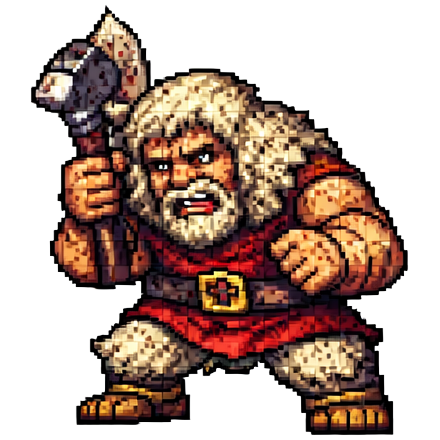
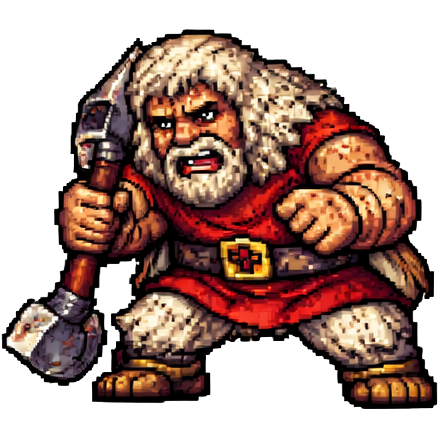
updated sprites, updated hall, enemy pool, and store

diff --git a/script.js b/script.js
@@ -80,10 +80,11 @@ function getShopStock(level) {
     4: ['champions_blade','death_scythe','plate_armor','tower_shield','hermes_boots','centurion_helm','siege_bolt'],
   };
   // Show current tier + 1 tier back (still relevant)
-  let pool = [...always, ...(byTier[1] || [])];
-  if (tier >= 2) pool = [...pool, ...(byTier[2] || [])];
-  if (tier >= 3) pool = [...pool, ...(byTier[3] || [])];
-  if (tier >= 4) pool = [...pool, ...(byTier[4] || [])];
+  let pool = [...always];
+  if (tier == 1) pool = [...pool, ...(byTier[1] || [])];
+  if (tier >= 2) pool = [...pool, ...(byTier[1] || []) , ...(byTier[2] || [])];
+  if (tier >= 3) pool = [...pool, ...(byTier[2] || []) , ...(byTier[3] || [])];
+  if (tier >= 4) pool = [...pool, ...(byTier[3] || []) , ...(byTier[4] || [])];
   // Remove tier-0 gear (already outgrown starters) except consumables
   return pool.filter(id => {
     const it = ITEMS[id];
@@ -98,11 +99,14 @@ function nextTierItem(slot, currentTier) {
 // ── ENEMY POOL ───────────────────────────────────────────────────
 const ENEMY_POOL = [
   // Tier 1
-  {id:'sickly_goblin',    name:'Sickly Goblin',      sprite:'t1_sickly_goblin', tier:1, bHp:55,  atk:12, def:3,  spd:3, prefRange:0,  hasRanged:false, xp:22, gold:14, diff:'easy'},
-  {id:'mangy_dog',        name:'Mangy Dog',           sprite:'t1_mangy_dog',     tier:1, bHp:45,  atk:14, def:2,  spd:5, prefRange:0,  hasRanged:false, xp:18, gold:10, diff:'easy'},
-  {id:'drunk_slave',      name:'Drunk Slave',         sprite:'t1_drunk_slave',   tier:1, bHp:65,  atk:11, def:4,  spd:2, prefRange:0,  hasRanged:false, xp:25, gold:18, diff:'easy'},
-  {id:'street_thug',      name:'Street Thug',         sprite:'t1_street_thug',   tier:1, bHp:70,  atk:15, def:5,  spd:2, prefRange:0,  hasRanged:false, xp:28, gold:20, diff:'avg'},
-  {id:'arena_rat',        name:'Arena Rat',           sprite:'t1_arena_rat',     tier:1, bHp:48,  atk:16, def:2,  spd:6, prefRange:0,  hasRanged:false, xp:24, gold:15, diff:'avg'},
+  {id:'sickly_goblin',    name:'Sickly Goblin',      sprite:'t1_sickly_goblin',  tier:1, bHp:55,  atk:12, def:3,  spd:3, prefRange:0,  hasRanged:false, xp:22, gold:14, diff:'easy'},
+  {id:'mangy_dog',        name:'Mangy Dog',           sprite:'t1_mangy_dog',      tier:1, bHp:45,  atk:14, def:2,  spd:5, prefRange:0,  hasRanged:false, xp:18, gold:10, diff:'easy'},
+  {id:'drunk_slave',      name:'Drunk Slave',         sprite:'t1_drunk_slave',    tier:1, bHp:65,  atk:11, def:4,  spd:2, prefRange:0,  hasRanged:false, xp:25, gold:18, diff:'easy'},
+  {id:'lame_beggar',      name:'Lame Beggar',         sprite:'t1_lame_beggar',    tier:1, bHp:38,  atk:10, def:1,  spd:2, prefRange:0,  hasRanged:false, xp:16, gold:8,  diff:'easy'},
+  {id:'street_thug',      name:'Street Thug',         sprite:'t1_street_thug',    tier:1, bHp:70,  atk:15, def:5,  spd:2, prefRange:0,  hasRanged:false, xp:28, gold:20, diff:'avg'},
+  {id:'arena_rat',        name:'Arena Rat',           sprite:'t1_arena_rat',      tier:1, bHp:48,  atk:16, def:2,  spd:6, prefRange:0,  hasRanged:false, xp:24, gold:15, diff:'avg'},
+  {id:'mad_dog_gladiator',name:'Mad Dog Gladiator',   sprite:'t1_mad_dog_gladiator',tier:1,bHp:80,  atk:18, def:6,  spd:4, prefRange:0,  hasRanged:false, xp:32, gold:22, diff:'hard'},
+  {id:'starved_hyena',    name:'Starved Hyena',       sprite:'t1_starved_hyena',   tier:1, bHp:72,  atk:20, def:4,  spd:5, prefRange:0,  hasRanged:false, xp:30, gold:20, diff:'hard'},
   // Tier 2
   {id:'tiger_cub',        name:'Tiger Cub',           sprite:'t2_tiger_cub',  tier:2, bHp:90,  atk:18, def:7,  spd:3, prefRange:0,  hasRanged:false, xp:45, gold:35, diff:'easy'},
   {id:'net_fighter',      name:'Net Fighter',         sprite:'t2_net_fighter',   tier:2, bHp:80,  atk:14, def:6,  spd:4, prefRange:30, hasRanged:true,  xp:48, gold:38, diff:'easy'},
@@ -118,9 +122,12 @@ const ENEMY_POOL = [
   {id:'samurai_warrior',  name:'Samurai Warrior',    sprite:'t3_samurai_warrior',   tier:3, bHp:130, atk:28, def:10, spd:6, prefRange:30, hasRanged:true,  xp:92, gold:72, diff:'hard'},
   {id:'wild_elephant',    name:'Wild Elephant',     sprite:'t3_wild_elephant',  tier:3, bHp:180, atk:34, def:16, spd:3, prefRange:0,  hasRanged:false, xp:110,gold:90, diff:'hard'},
   // Tier 4
-  {id:'elite_praetorian', name:'Elite Praetorian',    sprite:'veteran',  tier:4, bHp:220, atk:36, def:22, spd:4, prefRange:0,  hasRanged:false, xp:150,gold:120,diff:'easy'},
-  {id:'shadow_assassin',  name:'Shadow Assassin',     sprite:'archer',   tier:4, bHp:200, atk:44, def:16, spd:8, prefRange:20, hasRanged:true,  xp:170,gold:135,diff:'hard'},
-  {id:'titan_warrior',    name:'Titan Warrior',       sprite:'berserker',tier:4, bHp:320, atk:42, def:24, spd:2, prefRange:0,  hasRanged:false, xp:200,gold:160,diff:'hard'},
+  {id:'elite_praetorian', name:'Elite Praetorian',    sprite:'t4_elite_praetorian',  tier:4, bHp:220, atk:36, def:22, spd:4, prefRange:0,  hasRanged:false, xp:150,gold:120,diff:'easy'},
+  {id:'persian_immortal', name:'Persian Immortal',    sprite:'t4_persian_immortal',  tier:4, bHp:240, atk:38, def:24, spd:3, prefRange:0,  hasRanged:false, xp:160,gold:125,diff:'easy'},
+  {id:'numidian_warlord', name:'Numidian Warlord',    sprite:'t4_numidian_warlord',  tier:4, bHp:270, atk:40, def:20, spd:5, prefRange:30, hasRanged:true,  xp:180,gold:140,diff:'avg'},
+  {id:'greek_champion',   name:'Greek Champion',      sprite:'t4_greek_champion',    tier:4, bHp:260, atk:38, def:22, spd:4, prefRange:0,  hasRanged:false, xp:175,gold:138,diff:'avg'},
+  {id:'shadow_assassin',  name:'Shadow Assassin',     sprite:'t4_shadow_assassin',   tier:4, bHp:200, atk:44, def:16, spd:8, prefRange:20, hasRanged:true,  xp:170,gold:135,diff:'hard'},
+  {id:'titan_warrior',    name:'Titan Warrior',       sprite:'t4_titan_warrior',     tier:4, bHp:320, atk:42, def:24, spd:2, prefRange:0,  hasRanged:false, xp:200,gold:160,diff:'hard'},
 ];
 
 function tierForLevel(level) {
@@ -899,6 +906,20 @@ const UI = {
     } else {
       badge.textContent = 'No active gladiator.';
     }
+    this._randomiseMenuSprites();
+  },
+
+  _randomiseMenuSprites() {
+    // Collect all unique sprites from tiers 1, 2 and 3 only
+    const pool = [...new Set(
+      ENEMY_POOL.filter(e => e.tier >= 1 && e.tier <= 3).map(e => e.sprite)
+    )];
+    // Shuffle and pick two different sprites
+    const shuffled = pool.sort(() => Math.random() - 0.5);
+    const imgL = document.getElementById('menu-sprite-left');
+    const imgR = document.getElementById('menu-sprite-right');
+    if (imgL) imgL.src = `assets/enemies/${shuffled[0]}.png`;
+    if (imgR) imgR.src = `assets/enemies/${shuffled[1]}.png`;
   },
 
   // ── Load prompt ────────────────────────────────────────────
@@ -1049,7 +1070,7 @@ const UI = {
     document.getElementById('cb-elevel').textContent = '';
     const img = document.getElementById('cb-esprite');
     img.src = `assets/enemies/${enemy.sprite}.png`;
-    img.style.height = '64px';
+    img.style.height = '144px';
     document.getElementById('cb-day').textContent = `${player.weekDayName} — Fight ${player.fightNum + 1}`;
     // log-body already cleared in selectEnemy before start() ran
     this.drawAvatar('cv-combat', player);
@@ -1198,7 +1219,13 @@ const UI = {
     const banner = document.getElementById('post-result');
     const rewards = document.getElementById('post-rewards');
 
-    if (result.victory) {
+    // storeOnly visits must never render a battle result — return early
+    // after setting up the armoury header so heal buttons stay safe.
+    if (result.storeOnly) {
+      banner.textContent = '🏪 ARMOURY';
+      banner.className = 'result-banner res-fled';
+      rewards.textContent = 'Browse before your next fight.';
+    } else if (result.victory) {
       banner.textContent = '⚔ VICTORIA! ⚔';
       banner.className = 'result-banner res-win';
       rewards.innerHTML = `
@@ -1382,7 +1409,9 @@ const UI = {
       })();
       const fate = c.status === 'dead'
         ? `<span class="fate-dead">Slain by ${c.killedBy||'?'}</span>`
-        : `<span class="fate-retired">Retired</span>`;
+        : c.status === 'active'
+          ? `<span class="fate-active">Active</span>`
+          : `<span class="fate-retired">Retired</span>`;
       const tr = document.createElement('tr');
       tr.className = i < 3 ? `r${i+1}` : '';
       tr.innerHTML = `

diff --git a/styles.css b/styles.css
@@ -116,6 +116,7 @@ html, body {
 #screen-menu {
   justify-content: center;
   background: radial-gradient(ellipse at 50% 35%, rgba(200,148,28,0.07) 0%, transparent 65%), var(--bg0);
+  overflow: hidden;
 }
 .menu-bg {
   position: absolute; inset: 0; pointer-events: none; z-index: 0;
@@ -124,10 +125,36 @@ html, body {
     transparent 1px, transparent 10px
   );
 }
+.menu-row {
+  position: relative; z-index: 1;
+  display: flex; align-items: center; justify-content: center;
+  gap: 0; width: 100%;
+}
+.menu-sprite-slot {
+  flex: 0 0 500px; width: 500px; height: 500px;
+  display: flex; align-items: flex-end; justify-content: center;
+  pointer-events: none;
+}
+.menu-sprite {
+  width: 500px; height: 500px;
+  object-fit: contain;
+  opacity: 0.92;
+  filter: drop-shadow(0 0 18px rgba(200,148,28,0.18));
+}
+.menu-sprite-flip {
+  transform: scaleX(-1);
+}
+@media (max-width: 1100px) {
+  .menu-sprite-slot { flex: 0 0 300px; width: 300px; height: 300px; }
+  .menu-sprite       { width: 300px; height: 300px; }
+}
+@media (max-width: 760px) {
+  .menu-sprite-slot { display: none; }
+}
 .menu-wrap {
   position: relative; z-index: 1;
   display: flex; flex-direction: column; align-items: center; gap: 6px;
-  max-width: 440px; width: 100%;
+  max-width: 440px; width: 100%; flex-shrink: 0;
 }
 .menu-crest {
   font-size: 54px;
@@ -268,7 +295,7 @@ html, body {
 .ecard:hover { border-color: var(--gd); transform: translateY(-3px); box-shadow: 0 0 14px rgba(200,148,28,0.12); }
 .ecard:hover::before { background: var(--gd); }
 .ecard-sprite { text-align: center; margin-bottom: 6px; }
-.ecard-sprite img { height: 64px; width: auto; image-rendering: pixelated; }
+.ecard-sprite img { height: 144px; width: auto; image-rendering: pixelated; }
 .ecard-name { font-family: var(--fh); font-size: 9px; color: var(--gd2); letter-spacing: 1px; text-align: center; margin-bottom: 6px; }
 .ecard-stats { font-size: 14px; color: var(--tx1); text-align: center; line-height: 1.7; }
 .ecard-reward { font-size: 13px; color: var(--tx2); text-align: center; margin-top: 7px; padding-top: 7px; border-top: var(--br); }
@@ -315,7 +342,7 @@ html, body {
 .cb-turn { font-family: var(--fh); font-size: 10px; color: var(--gd2); letter-spacing: 2px; }
 
 .combat-row {
-  display: grid; grid-template-columns: 200px 1fr 200px;
+  display: grid; grid-template-columns: 220px 1fr 220px;
   gap: 8px; width: 100%; max-width: 900px; margin-bottom: 7px;
 }
 @media (max-width: 680px) { .combat-row { grid-template-columns: 1fr; } }
@@ -325,10 +352,10 @@ html, body {
   padding: 9px; display: flex; flex-direction: column; align-items: center; gap: 5px;
 }
 .player-side { border-color: var(--gd); }
-.fighter-avatar { display: flex; justify-content: center; }
+.fighter-avatar { display: flex; justify-content: center; overflow: visible; }
 .fighter-avatar canvas { display: block; }
 .enemy-avatar-wrap { display: flex; justify-content: center; align-items: center; }
-.enemy-sprite { height: 64px; max-width: 100%; }
+.enemy-sprite { height: 144px; max-width: 100%; }
 
 .fighter-meta { width: 100%; text-align: center; }
 .fighter-name  { font-family: var(--fh); font-size: 8px; color: var(--tx0); letter-spacing: 1px; }
@@ -541,6 +568,7 @@ html, body {
 .hall-tbl .r3 td { color: #CD7F32; }
 .fate-dead    { color: var(--rd2) !important; }
 .fate-retired { color: var(--gr3) !important; }
+.fate-active  { color: var(--gd2) !important; font-weight: 600; }
 .hall-empty { font-size: 16px; color: var(--tx2); text-align: center; padding: 24px; font-style: italic; }
 #screen-hall button { width: auto; }
 

diff --git a/index.html b/index.html
@@ -13,16 +13,24 @@
 <!-- ═══════════════════════════ MAIN MENU ═══════════════════════════ -->
 <div id="screen-menu" class="screen active">
   <div class="menu-bg"></div>
-  <div class="menu-wrap">
-    <div class="menu-crest">⚔</div>
-    <h1 class="game-title">ARENA BLOOD</h1>
-    <p class="game-sub">GLADIATOR CHRONICLES · VOL. III</p>
-    <div class="menu-btns">
-      <button class="mbtn mbtn-primary" id="btn-play">▶ ENTER THE ARENA</button>
-      <button class="mbtn" id="btn-hall">🏛 HALL OF LEGENDS</button>
-      <button class="mbtn" id="btn-howto">📜 HOW TO FIGHT</button>
+  <div class="menu-row">
+    <div class="menu-sprite-slot">
+      <img id="menu-sprite-left" src="" alt="" class="menu-sprite menu-sprite-flip pxl"/>
     </div>
-    <div class="save-badge" id="save-badge"></div>
+    <div class="menu-wrap">
+      <div class="menu-crest">⚔</div>
+      <h1 class="game-title">ARENA BLOOD</h1>
+      <p class="game-sub">GLADIATOR CHRONICLES · VOL. III</p>
+      <div class="menu-btns">
+        <button class="mbtn mbtn-primary" id="btn-play">▶ ENTER THE ARENA</button>
+        <button class="mbtn" id="btn-hall">🏛 HALL OF LEGENDS</button>
+        <button class="mbtn" id="btn-howto">📜 HOW TO FIGHT</button>
+      </div>
+      <div class="save-badge" id="save-badge"></div>
+    </div>
+    <div class="menu-sprite-slot">
+      <img id="menu-sprite-right" src="" alt="" class="menu-sprite pxl"/>
+    </div>
   </div>
 </div>
 
@@ -98,7 +106,7 @@
 
     <div class="creation-avatar-col">
       <div class="avatar-frame large">
-        <canvas id="cv-create" width="192" height="96" class="pxl"></canvas>
+        <canvas id="cv-create" width="154" height="252" class="pxl"></canvas>
         <div class="avatar-caption">YOUR GLADIATOR</div>
       </div>
     </div>
@@ -130,7 +138,7 @@
     <!-- Player side -->
     <div class="fighter-panel player-side">
       <div class="fighter-avatar">
-        <canvas id="cv-combat" width="192" height="96" class="pxl"></canvas>
+        <canvas id="cv-combat" width="110" height="180" class="pxl"></canvas>
       </div>
       <div class="fighter-meta">
         <div class="fighter-name" id="cb-pname">—</div>
@@ -276,7 +284,7 @@
       <div id="inv-equip" class="equip-list"></div>
     </div>
     <div class="inv-panel center-col">
-      <canvas id="cv-inv" width="192" height="96" class="pxl" style="margin:0 auto;display:block;"></canvas>
+      <canvas id="cv-inv" width="132" height="216" class="pxl" style="margin:0 auto;display:block;"></canvas>
       <div id="inv-stats" class="inv-stats"></div>
     </div>
     <div class="inv-panel">
